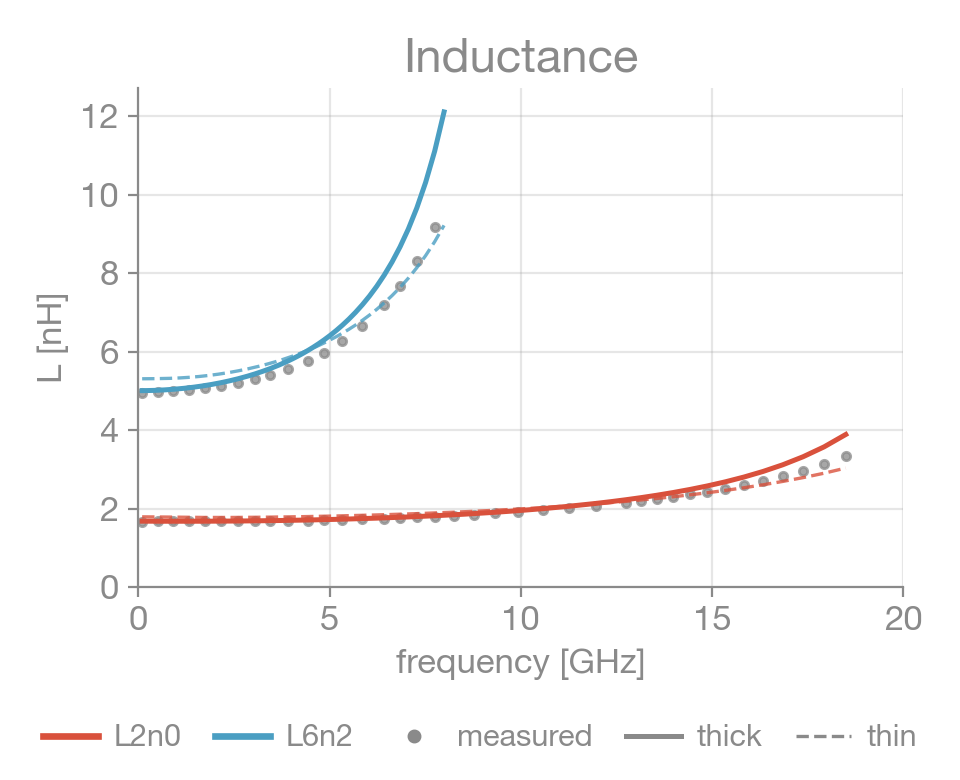
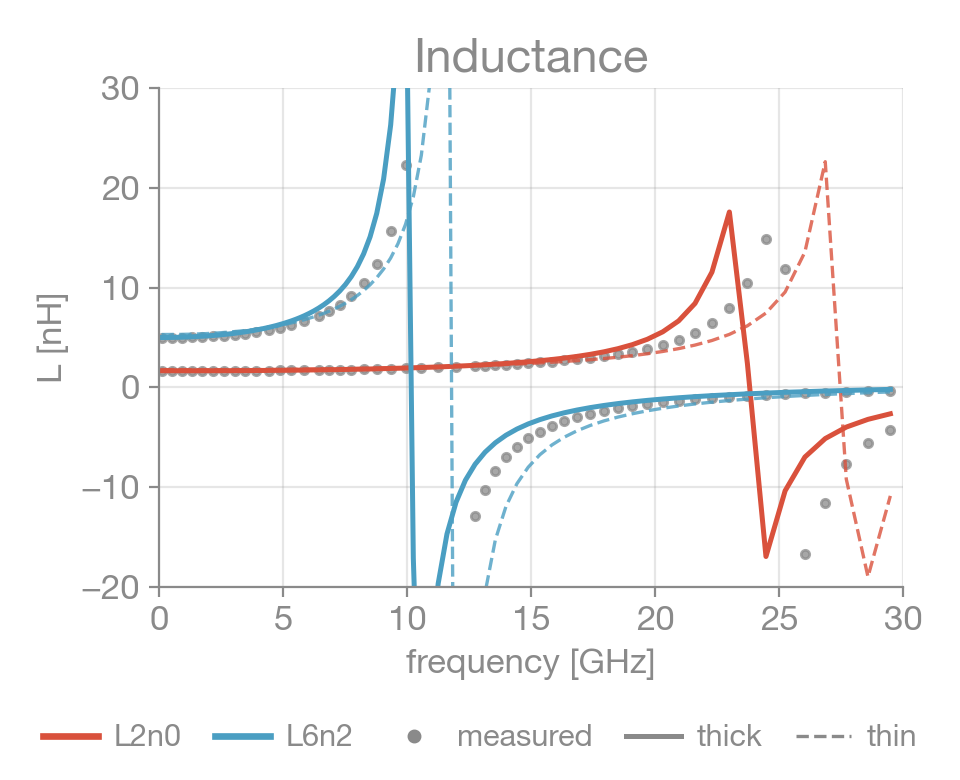
RapidMoM: SG13G2 inductance over the full band, past the self-resonance

diff --git a/src/content/stack/rapidmom.md b/src/content/stack/rapidmom.md
@@ -88,8 +88,8 @@ The reference is the IHP SG13G2 test structures of the
 measured on wafer and de-embedded by IHP. The inductors L2n0 and L6n2 are
 solved with an adaptive sweep on both conductor models, with TopMetal1 and
 TopMetal2 as thick conductors in the thick runs. The plots show inductance and
-quality factor of the winding against the measurement, the inductance up to
-just below the self-resonance.
+quality factor of the winding against the measurement, over the band and past
+the self-resonance.
 
 ## Evaluation kit
 
